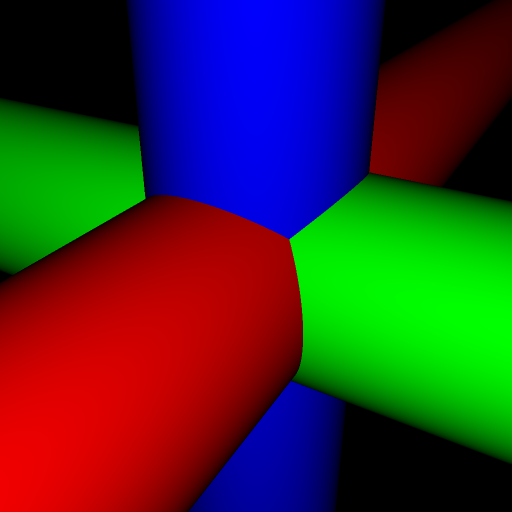
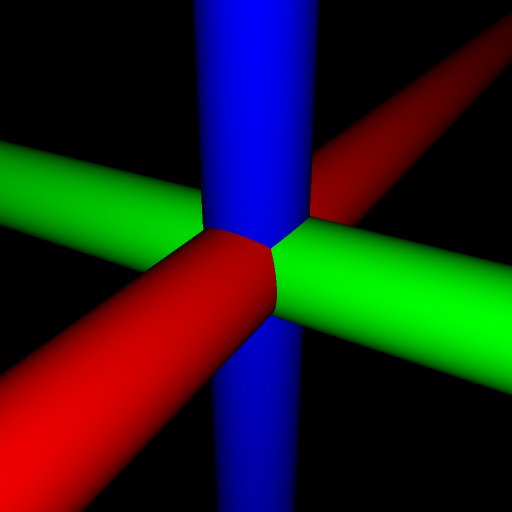
Add axis and angle to Cone

diff --git a/Imagine.Scenes/Scene.cs b/Imagine.Scenes/Scene.cs
@@ -2,8 +2,8 @@ namespace Imagine.Scenes;
 
 public static class Scene
 {
-	public static IScene Cone() =>
-		new Cone();
+	public static IScene Cone(Vector3 axis, double angle) =>
+		new Cone(axis, angle);
 
 	public static IScene Cube() =>
 		CubeWithCircumradius(1D);
@@ -32,20 +32,20 @@ public static class Scene
 	public static IScene DodecahedronWithInradius(double inradius)
 	{
 		var dihedralAngle = double.Acos(-1D / double.Sqrt(5D));
-		var azimuthStep = Math.PI / 5D;
+		var azimuthStep = double.Pi / 5D;
 
 		return Polyhedron(
-			new Vector3Spherical(inradius, 0D, Math.PI),
+			new Vector3Spherical(inradius, 0D, double.Pi),
 			new Vector3Spherical(inradius, 0D * azimuthStep, dihedralAngle),
 			new Vector3Spherical(inradius, 2D * azimuthStep, dihedralAngle),
 			new Vector3Spherical(inradius, 4D * azimuthStep, dihedralAngle),
 			new Vector3Spherical(inradius, 6D * azimuthStep, dihedralAngle),
 			new Vector3Spherical(inradius, 8D * azimuthStep, dihedralAngle),
-			new Vector3Spherical(inradius, 1D * azimuthStep, Math.PI - dihedralAngle),
-			new Vector3Spherical(inradius, 3D * azimuthStep, Math.PI - dihedralAngle),
-			new Vector3Spherical(inradius, 5D * azimuthStep, Math.PI - dihedralAngle),
-			new Vector3Spherical(inradius, 7D * azimuthStep, Math.PI - dihedralAngle),
-			new Vector3Spherical(inradius, 9D * azimuthStep, Math.PI - dihedralAngle),
+			new Vector3Spherical(inradius, 1D * azimuthStep, double.Pi - dihedralAngle),
+			new Vector3Spherical(inradius, 3D * azimuthStep, double.Pi - dihedralAngle),
+			new Vector3Spherical(inradius, 5D * azimuthStep, double.Pi - dihedralAngle),
+			new Vector3Spherical(inradius, 7D * azimuthStep, double.Pi - dihedralAngle),
+			new Vector3Spherical(inradius, 9D * azimuthStep, double.Pi - dihedralAngle),
 			new Vector3Spherical(inradius, 0D, 0D));
 	}
 
@@ -65,11 +65,11 @@ public static class Scene
 	{
 		var dihedralAngle = double.Acos(-double.Sqrt(5D) / 3D);
 		var secondInclination = double.Acos(-1D / 3D);
-		var azimuthStep = Math.PI / 3D;
-		var azimuthOffset = (Math.PI / 3D) - double.Acos(double.Sqrt(5D / 8D));
+		var azimuthStep = double.Pi / 3D;
+		var azimuthOffset = (double.Pi / 3D) - double.Acos(double.Sqrt(5D / 8D));
 
 		return Polyhedron(
-			new Vector3Spherical(inradius, 0D, Math.PI),
+			new Vector3Spherical(inradius, 0D, double.Pi),
 			new Vector3Spherical(inradius, 0D * azimuthStep, dihedralAngle),
 			new Vector3Spherical(inradius, 2D * azimuthStep, dihedralAngle),
 			new Vector3Spherical(inradius, 4D * azimuthStep, dihedralAngle),
@@ -79,15 +79,15 @@ public static class Scene
 			new Vector3Spherical(inradius, (3D * azimuthStep) + azimuthOffset, secondInclination),
 			new Vector3Spherical(inradius, (5D * azimuthStep) - azimuthOffset, secondInclination),
 			new Vector3Spherical(inradius, (5D * azimuthStep) + azimuthOffset, secondInclination),
-			new Vector3Spherical(inradius, (0D * azimuthStep) - azimuthOffset, Math.PI - secondInclination),
-			new Vector3Spherical(inradius, (0D * azimuthStep) + azimuthOffset, Math.PI - secondInclination),
-			new Vector3Spherical(inradius, (2D * azimuthStep) - azimuthOffset, Math.PI - secondInclination),
-			new Vector3Spherical(inradius, (2D * azimuthStep) + azimuthOffset, Math.PI - secondInclination),
-			new Vector3Spherical(inradius, (4D * azimuthStep) - azimuthOffset, Math.PI - secondInclination),
-			new Vector3Spherical(inradius, (4D * azimuthStep) + azimuthOffset, Math.PI - secondInclination),
-			new Vector3Spherical(inradius, 1D * azimuthStep, Math.PI - dihedralAngle),
-			new Vector3Spherical(inradius, 3D * azimuthStep, Math.PI - dihedralAngle),
-			new Vector3Spherical(inradius, 5D * azimuthStep, Math.PI - dihedralAngle),
+			new Vector3Spherical(inradius, (0D * azimuthStep) - azimuthOffset, double.Pi - secondInclination),
+			new Vector3Spherical(inradius, (0D * azimuthStep) + azimuthOffset, double.Pi - secondInclination),
+			new Vector3Spherical(inradius, (2D * azimuthStep) - azimuthOffset, double.Pi - secondInclination),
+			new Vector3Spherical(inradius, (2D * azimuthStep) + azimuthOffset, double.Pi - secondInclination),
+			new Vector3Spherical(inradius, (4D * azimuthStep) - azimuthOffset, double.Pi - secondInclination),
+			new Vector3Spherical(inradius, (4D * azimuthStep) + azimuthOffset, double.Pi - secondInclination),
+			new Vector3Spherical(inradius, 1D * azimuthStep, double.Pi - dihedralAngle),
+			new Vector3Spherical(inradius, 3D * azimuthStep, double.Pi - dihedralAngle),
+			new Vector3Spherical(inradius, 5D * azimuthStep, double.Pi - dihedralAngle),
 			new Vector3Spherical(inradius, 0D, 0D));
 	}
 
@@ -103,16 +103,16 @@ public static class Scene
 	public static IScene OctahedronWithInradius(double inradius)
 	{
 		var dihedralAngle = double.Acos(-1D / 3D);
-		var azimuthStep = Math.PI / 3D;
+		var azimuthStep = double.Pi / 3D;
 
 		return Polyhedron(
-			new Vector3Spherical(inradius, 0D, Math.PI),
+			new Vector3Spherical(inradius, 0D, double.Pi),
 			new Vector3Spherical(inradius, 0D * azimuthStep, dihedralAngle),
 			new Vector3Spherical(inradius, 2D * azimuthStep, dihedralAngle),
 			new Vector3Spherical(inradius, 4D * azimuthStep, dihedralAngle),
-			new Vector3Spherical(inradius, 1D * azimuthStep, Math.PI - dihedralAngle),
-			new Vector3Spherical(inradius, 3D * azimuthStep, Math.PI - dihedralAngle),
-			new Vector3Spherical(inradius, 5D * azimuthStep, Math.PI - dihedralAngle),
+			new Vector3Spherical(inradius, 1D * azimuthStep, double.Pi - dihedralAngle),
+			new Vector3Spherical(inradius, 3D * azimuthStep, double.Pi - dihedralAngle),
+			new Vector3Spherical(inradius, 5D * azimuthStep, double.Pi - dihedralAngle),
 			new Vector3Spherical(inradius, 0D, 0D));
 	}
 
@@ -143,10 +143,10 @@ public static class Scene
 	public static IScene TetrahedronWithInradius(double inradius)
 	{
 		var dihedralAngle = double.Acos(1D / 3D);
-		var azimuthStep = 2D * Math.PI / 3D;
+		var azimuthStep = 2D * double.Pi / 3D;
 
 		return Polyhedron(
-			new Vector3Spherical(inradius, 0D, Math.PI),
+			new Vector3Spherical(inradius, 0D, double.Pi),
 			new Vector3Spherical(inradius, 0D * azimuthStep, dihedralAngle),
 			new Vector3Spherical(inradius, 1D * azimuthStep, dihedralAngle),
 			new Vector3Spherical(inradius, 2D * azimuthStep, dihedralAngle));

diff --git a/Imagine.Tests/ProjectorTests.cs b/Imagine.Tests/ProjectorTests.cs
@@ -8,9 +8,9 @@ public class ProjectorTests
 
 	private static readonly ProjectorSettings ProjectorSettings =
 		new(
-			eye: (Vector3)new Vector3Spherical(3D, Math.PI / 6D, Math.PI / 3D),
+			eye: (Vector3)new Vector3Spherical(3D, double.Pi / 6D, double.Pi / 3D),
 			focus: new(0D, 0D, 0D),
-			fieldOfView: Math.PI / 4D);
+			fieldOfView: double.Pi / 4D);
 
 	private static readonly ImageSettings ImageSettings =
 		new(
@@ -21,14 +21,21 @@ public class ProjectorTests
 	private static readonly IScene BoundingSphere = Scene.Sphere().Transparent();
 	private static readonly IScene Cylinder = Scene.Cylinder(new(0D, 0D, 1D), 0.5D);
 	private static readonly IScene Sphere = Scene.SphereWithRadius(SphereRadius);
-	private static readonly IScene Tetrahedron = Scene.Tetrahedron().Rotated(11D * Math.PI / 24D);
+	private static readonly IScene Tetrahedron = Scene.Tetrahedron().Rotated(11D * double.Pi / 24D);
 
 	private static readonly Dictionary<string, IScene> Scenes =
 		new()
 		{
 			{
 				"cone",
-				Scene.Intersection(Scene.Cone(), BoundingSphere)
+				Scene.Intersection(Scene.Cone(new(0D, 0D, 1D), double.Pi / 2D), BoundingSphere)
+			},
+			{
+				"cone-union",
+				Scene.Union(
+					Scene.Cone(new(1D, 0D, 0D), double.Pi / 16D).Painted(new(1D, 0D, 0D)),
+					Scene.Cone(new(0D, 1D, 0D), double.Pi / 16D).Painted(new(0D, 1D, 0D)),
+					Scene.Cone(new(0D, 0D, 1D), double.Pi / 16D).Painted(new(0D, 0D, 1D)))
 			},
 			{
 				 "cube-except-sphere",
@@ -40,7 +47,7 @@ public class ProjectorTests
 			},
 			{
 				"cube-rotated",
-				Scene.Cube().Rotated(Math.PI / 4D)
+				Scene.Cube().Rotated(double.Pi / 4D)
 			},
 			{
 				"cube-scaled",
@@ -76,9 +83,9 @@ public class ProjectorTests
 			{
 				"cylinder-union",
 				Scene.Union(
-					Scene.Cylinder(new(1D, 0D, 0D), 0.5D).Painted(new(1D, 0D, 0D)),
-					Scene.Cylinder(new(0D, 1D, 0D), 0.5D).Painted(new(0D, 1D, 0D)),
-					Scene.Cylinder(new(0D, 0D, 1D), 0.5D).Painted(new(0D, 0D, 1D)))
+					Scene.Cylinder(new(1D, 0D, 0D), 0.25D).Painted(new(1D, 0D, 0D)),
+					Scene.Cylinder(new(0D, 1D, 0D), 0.25D).Painted(new(0D, 1D, 0D)),
+					Scene.Cylinder(new(0D, 0D, 1D), 0.25D).Painted(new(0D, 0D, 1D)))
 			},
 			{
 				"dodecahedron",
@@ -98,7 +105,7 @@ public class ProjectorTests
 			},
 			{
 				"sphere-except-cone",
-				Sphere.Except(Scene.Cone())
+				Sphere.Except(Scene.Cone(new(0D, 0D, 1D), double.Pi / 2D))
 			},
 			{
 				"sphere-except-cube",

diff --git a/Imagine.Scenes/Cone.cs b/Imagine.Scenes/Cone.cs
@@ -1,33 +1,24 @@
 namespace Imagine.Scenes;
 
-internal class Cone : IScene
+internal class Cone(Vector3 axis, double angle) : IScene
 {
+	private readonly Vector3 axisNormalized = axis.Normalized();
+	private readonly double k = (1D + double.Cos(angle)) / 2D;
+
 	public bool Contains(Vector3 point) =>
-		point.Dot(Mirrored(point)) < 0D;
+		k * point.Dot(point) <= point.Dot(axisNormalized) * point.Dot(axisNormalized);
 
 	public List<Intercept> Intercepts(Line3 ray)
 	{
-		var mirroredRay = new Line3(
-			Origin: Mirrored(ray.Origin),
-			Direction: Mirrored(ray.Direction));
-
 		var distances = QuadraticSolver.Solve(
-			ray.Direction.Dot(mirroredRay.Direction),
-			ray.Direction.Dot(mirroredRay.Origin) * 2D,
-			ray.Origin.Dot(mirroredRay.Origin));
+			(k * ray.Direction.Dot(ray.Direction)) - (ray.Direction.Dot(axisNormalized) * ray.Direction.Dot(axisNormalized)),
+			2D * ((k * ray.Origin.Dot(ray.Direction)) - (ray.Origin.Dot(axisNormalized) * ray.Direction.Dot(axisNormalized))),
+			(k * ray.Origin.Dot(ray.Origin)) - (ray.Origin.Dot(axisNormalized) * ray.Origin.Dot(axisNormalized)));
 
 		return [.. distances.
 			Select(distance =>
-			{
-				var intercept = ray.At(distance);
-				var mirroredIntercept = Mirrored(intercept);
-
-				return new Intercept(
+				new Intercept(
 					distance: distance,
-					normal: mirroredIntercept.Normalized());
-			})];
+					normal: ((ray.At(distance) * k) - (axisNormalized * ray.At(distance).Dot(axisNormalized))).Normalized()))];
 	}
-
-	private static Vector3 Mirrored(Vector3 point) =>
-		new(point.X, point.Y, -point.Z);
 }

diff --git a/Imagine.Scenes/Cylinder.cs b/Imagine.Scenes/Cylinder.cs
@@ -2,6 +2,8 @@ namespace Imagine.Scenes;
 
 internal class Cylinder(Vector3 axis, double radius) : IScene
 {
+	private readonly Vector3 axisNormalized = axis.Normalized();
+
 	public bool Contains(Vector3 point)
 	{
 		var pointPerpendicular = Perpendicular(point);
@@ -30,10 +32,6 @@ internal class Cylinder(Vector3 axis, double radius) : IScene
 			})];
 	}
 
-	private Vector3 Perpendicular(Vector3 point)
-	{
-		var axisNormalized = axis.Normalized();
-
-		return point - (axisNormalized * point.Dot(axisNormalized));
-	}
+	private Vector3 Perpendicular(Vector3 point) =>
+		point - (axisNormalized * point.Dot(axisNormalized));
 }
